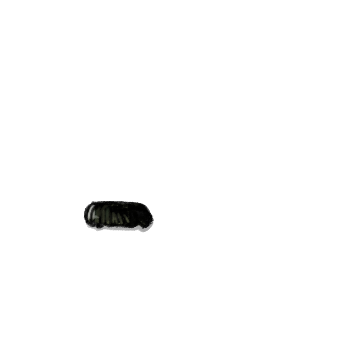
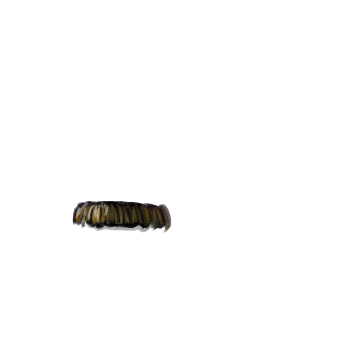
disables submission, changes moustache 37

Changed region(s): [[0.2, 0.5714, 0.4857, 0.6571]]

diff --git a/app/components/DragoonGenerator/DragoonGenerator.tsx b/app/components/DragoonGenerator/DragoonGenerator.tsx
@@ -82,6 +82,7 @@ const DragoonGenerator: FC<DragoonGeneratorProps> = (props) => {
     setCloth(null);
     setEye(0);
     setHat(null);
+    setHatBack(null);
     setHandItem(null);
     setHorn(0);
     setMoustache(null);
@@ -164,6 +165,7 @@ const DragoonGenerator: FC<DragoonGeneratorProps> = (props) => {
             className="flex flex-col m-auto 2xl:py-4"
           >
             <img src={nameBanner} className="py-2 m-auto" />
+            {/*
             <input
               id="author"
               name="author"
@@ -189,6 +191,7 @@ const DragoonGenerator: FC<DragoonGeneratorProps> = (props) => {
               disabled={transition.state === "submitting"}
               onChange={(e) => setMessage(e.target.value)}
             ></textarea>
+              */}
             <input
               id="hat"
               name="hat"
@@ -249,11 +252,11 @@ const DragoonGenerator: FC<DragoonGeneratorProps> = (props) => {
                 type="button"
                 form="dragoonData"
                 className="w-1/3 h-full submit-button"
-                disabled={
-                  transition.state === "submitting" ||
-                  author.length === 0 ||
-                  message.length === 0
-                }
+                // disabled={
+                //   transition.state === "submitting" ||
+                //   author.length === 0 ||
+                //   message.length === 0
+                // }
                 onClick={() => setIsOpen(true)}
               />
               <button

diff --git a/app/components/DragoonConfirmationModal/DragoonConfirmationModal.tsx b/app/components/DragoonConfirmationModal/DragoonConfirmationModal.tsx
@@ -74,8 +74,9 @@ const DragoonConfirmationModal: FC<DragoonConfirmationModalProps> = (props) => {
       <div className="fixed inset-0 bg-black/30" aria-hidden="true">
         <div className="fixed inset-0 flex items-center justify-center">
           <Dialog.Panel className="max-w-3xl p-4 bg-purple-300 border-2 border-black rounded font-dragoon">
-            <Dialog.Title className="pb-2 text-2xl">
-              Please confirm your message!
+            <Dialog.Title className="pb-2 text-xl">
+              Submissions are currently disabled. You can still download your
+              dragoon!
             </Dialog.Title>
             <div
               className="text-2xl"
@@ -110,6 +111,7 @@ const DragoonConfirmationModal: FC<DragoonConfirmationModalProps> = (props) => {
                 type="submit"
                 form="dragoonData"
                 className="px-2 py-1 text-white bg-purple-500 border-2 border-black rounded-md"
+                disabled={true}
               >
                 Submit!
               </button>
